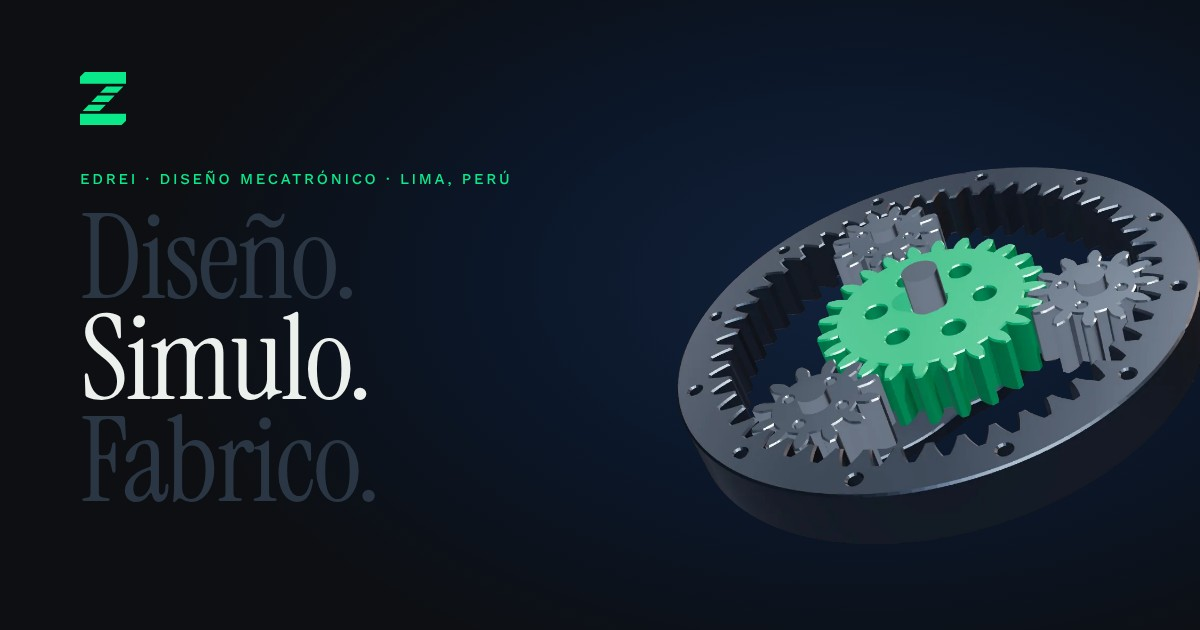
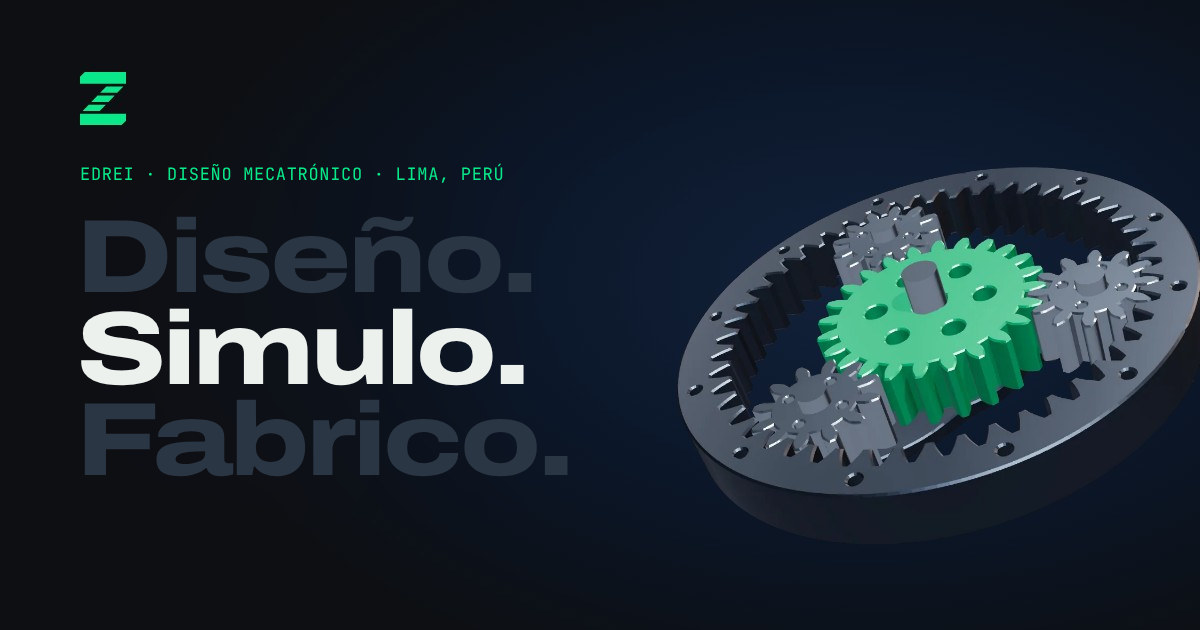
Ajustes de la revisión de la tipografía G
- Formatos: la lista se corta entre grupos y ya no se sale de su columna en celulares de 380 a 392 px
- Tamaños exactos de la hoja G; piso de 30 px en las frases y 27,5 px bajo 390 px para conservar los 6 renglones del titular
- Máscaras de revelado: el desplazamiento inicial ya no deja asomar letras mientras se usa la fuente de respaldo
- El titular espera 100 ms por Archivo cuando el respaldo con métricas ajustadas está cargado (600 ms sin él, como en Android)
- Asterisco de los campos a la altura de las mayúsculas, flecha del pie en JetBrains Mono y año con las cifras del texto
- Franja 01/02/03 sin recortes de 280 a 1023 px; pestañas y «Materializa» caben a 280 px
- Imagen para compartir en redes con Archivo y JetBrains Mono
- README: créditos de tipografías al día

Claude-Session: https://claude.ai/code/session_014y8mfwLCPCHA8myfd3LjTH

Changed region(s): [[0.0617, 0.3317, 0.4933, 0.8143], [0.0617, 0.2413, 0.4317, 0.3016]]

diff --git a/index.html b/index.html
@@ -18,7 +18,7 @@
 <meta property="og:title" content="Edrei · Diseño. Simulo. Fabrico.">
 <meta property="og:description" content="Diseño mecatrónico freelance: modelado 3D, simulación y fabricación de piezas y productos.">
 <meta property="og:url" content="https://edrei-portafolio.github.io/">
-<meta property="og:image" content="https://edrei-portafolio.github.io/assets/brand/og-image.jpg">
+<meta property="og:image" content="https://edrei-portafolio.github.io/assets/brand/og-image.jpg?v=2">
 <meta property="og:image:width" content="1200">
 <meta property="og:image:height" content="630">
 <meta property="og:locale" content="es_PE">
@@ -142,7 +142,7 @@
         <p class="prose case-copy-p">Convierto tu idea, un boceto, una foto o una pieza física en un modelo 3D paramétrico, preciso y listo para fabricarse. Incluye planos con cotas y tolerancias, renders y archivos en formatos estándar. <a class="link" href="#contacto" data-pick-level="X">Cotizar este nivel</a></p>
         <dl class="case-table">
           <div><dt>Recibes</dt><dd>Modelo 3D, planos y renders</dd></div>
-          <div><dt>Formatos</dt><dd>STEP&nbsp;·&nbsp;IGES&nbsp;·&nbsp;STL&nbsp;·&nbsp;DWG&nbsp;·&nbsp;PDF</dd></div>
+          <div><dt>Formatos</dt><dd><span class="grp">STEP&nbsp;· IGES&nbsp;· STL&nbsp;·</span> <span class="grp">DWG&nbsp;· PDF</span></dd></div>
           <div><dt>Punto de partida</dt><dd>Idea, boceto, plano o pieza</dd></div>
           <div><dt>Ingeniería inversa</dt><dd>Repuestos y piezas descontinuadas</dd></div>
           <div><dt>Ideal para</dt><dd>Emprendedores, talleres y empresas</dd></div>
@@ -343,12 +343,12 @@
 
     <form class="form row12" id="brief" novalidate>
       <div class="f f-half f-a">
-        <label for="nombre">Nombre*</label>
+        <label for="nombre">Nombre<span class="req" aria-hidden="true">*</span></label>
         <input id="nombre" name="nombre" type="text" autocomplete="name" placeholder="Escribe tu nombre" required>
         <p class="f-err" id="err-nombre"></p>
       </div>
       <div class="f f-half f-b">
-        <label for="medio">WhatsApp o correo*</label>
+        <label for="medio">WhatsApp o correo<span class="req" aria-hidden="true">*</span></label>
         <input id="medio" name="medio" type="text" autocomplete="on" placeholder="+51 9XX XXX XXX o correo" required>
         <p class="f-err" id="err-medio"></p>
       </div>
@@ -362,7 +362,7 @@
         </div>
       </fieldset>
       <div class="f f-full">
-        <label for="descripcion">Mensaje*</label>
+        <label for="descripcion">Mensaje<span class="req" aria-hidden="true">*</span></label>
         <textarea id="descripcion" name="descripcion" rows="3" placeholder="Qué es, para qué se usará y con qué cuentas hoy" required></textarea>
         <p class="f-err" id="err-descripcion"></p>
       </div>
@@ -377,7 +377,7 @@
     <footer class="foot row12">
       <p class="foot-a">© <span class="num" data-year>2026</span> <span data-cfg="nombre">Edrei</span> · EJE Z — Diseño mecatrónico, Lima</p>
       <p class="foot-b" data-foot-links></p>
-      <p class="foot-c"><a class="link" href="#manifiesto">Volver arriba ↑</a></p>
+      <p class="foot-c"><a class="link" href="#manifiesto">Volver arriba <span class="up" aria-hidden="true">↑</span></a></p>
     </footer>
   </section>
   <!-- END PKG-D -->

diff --git a/assets/css/motion.css b/assets/css/motion.css
@@ -17,8 +17,8 @@
 @keyframes ez-sx { from { transform: scaleX(0); } }
 @keyframes ez-sy { from { transform: scaleY(0); } }
 @keyframes ez-pop { from { transform: scale(0); } }
-@keyframes ez-rise-112 { from { transform: translateY(112%); } }
-@keyframes ez-rise-108 { from { transform: translateY(108%); } }
+@keyframes ez-rise-wm { from { transform: translateY(calc(100% + .3em)); } }
+@keyframes ez-rise-tm { from { transform: translateY(calc(100% + .2em)); } }
 @keyframes ez-fill { from { clip-path: inset(100% 0 0 0); } to { clip-path: inset(0); } }
 @keyframes ez-wipe { from { clip-path: inset(0 0 100% 0); } to { clip-path: inset(0); } }
 @keyframes ez-settle { from { transform: scale(1.04); } }
@@ -28,8 +28,8 @@
 .wm { display: inline-block; overflow: hidden; vertical-align: top; padding: .1em .06em .18em; margin: -.1em -.06em -.18em; }
 .wm > span { display: inline-block; }
 html.motion .manifesto-text:not(.is-split) { opacity: 0; animation: ez-failsafe 0s 2.5s forwards; }
-html.motion .manifesto-text.is-split:not(.is-go) .wm > span { transform: translateY(112%); }
-html.motion .manifesto-text.is-go .wm > span { animation: ez-rise-112 var(--t-hero) var(--ease-expo) var(--d, 0ms) backwards; }
+html.motion .manifesto-text.is-split:not(.is-go) .wm > span { transform: translateY(calc(100% + .3em)); }
+html.motion .manifesto-text.is-go .wm > span { animation: ez-rise-wm var(--t-hero) var(--ease-expo) var(--d, 0ms) backwards; }
 /* La cota bajo "verificada" se dibuja tras la última línea */
 html.motion .manifesto-text:not(.is-go) .cota-word::after { transform: scaleX(0); }
 html.motion .manifesto-text.is-go:not(.is-done) .cota-word::after { animation: ez-sx 700ms var(--ease-out) var(--cd, 900ms) backwards; }
@@ -64,8 +64,8 @@ html.motion .cta-box { animation: ez-fill 700ms var(--ease-out) 600ms backwards;
 /* ---------- 5 · Capítulos: títulos con máscara ---------- */
 .tm { display: block; overflow: hidden; padding: .14em .04em .08em; margin: -.14em -.04em -.08em; }
 .tm > span { display: inline-block; }
-html.motion.mo-ready .rv:not(.is-in) .tm > span { transform: translateY(108%); }
-html.motion.mo-ready .rv.is-in .tm > span { animation: ez-rise-108 var(--t-hero) var(--ease-expo) backwards; }
+html.motion.mo-ready .rv:not(.is-in) .tm > span { transform: translateY(calc(100% + .2em)); }
+html.motion.mo-ready .rv.is-in .tm > span { animation: ez-rise-tm var(--t-hero) var(--ease-expo) backwards; }
 
 /* Cota, meta y regla inferior de la cabecera */
 html.motion.mo-ready .rv:not(.is-in) .cota::before,
@@ -126,8 +126,8 @@ html.motion.mo-ready .collage figure.is-in :is(img, canvas) { animation: ez-wipe
 }
 
 /* ---------- 8 · Sobre mí y contacto ---------- */
-html.motion.mo-ready .rv-h:not(.is-in) .wm > span { transform: translateY(112%); }
-html.motion.mo-ready .rv-h.is-in .wm > span { animation: ez-rise-112 900ms var(--ease-expo) var(--d, 0ms) backwards; }
+html.motion.mo-ready .rv-h:not(.is-in) .wm > span { transform: translateY(calc(100% + .3em)); }
+html.motion.mo-ready .rv-h.is-in .wm > span { animation: ez-rise-wm 900ms var(--ease-expo) var(--d, 0ms) backwards; }
 
 /* Riel de pasos: la regla se dibuja y luego aparecen los nodos */
 html.motion .steps li { border-top-color: transparent; }

diff --git a/assets/css/base.css b/assets/css/base.css
@@ -22,8 +22,8 @@
   --f-display:"Archivo","Archivo Display Fallback",Arial,sans-serif;
   --f-body:"Archivo","Archivo Fallback","Helvetica Neue",Arial,sans-serif;
   --f-mono:"JetBrains Mono",ui-monospace,"SFMono-Regular",Menlo,monospace;
-  --t-xl:clamp(2.5rem,.875rem + 5.5vw,6.125rem);   /* títulos de nivel (Archivo 800 al 125%) */
-  --t-l:clamp(1.875rem,1.05rem + 2.75vw,3.75rem);  /* h1 y cada h2 de frase (Archivo 600 al 112%) */
+  --t-xl:clamp(2.52rem,.864rem + 5.472vw,6.12rem);  /* títulos de nivel (Archivo 800 al 125%); medidas exactas de la hoja G */
+  --t-l:clamp(1.875rem,1.05rem + 2.772vw,3.78rem);  /* h1 y cada h2 de frase (Archivo 600 al 112%); piso de 30 px: a 30,24 el primer renglón del titular queda a 2 px del borde a 390 px y el respaldo pasa a 7 renglones */
   --t-lead:1.125rem; --t-body:1rem; --t-small:.875rem; --t-label:.75rem; /* floor = 12px */
   /* space */
   --s-1:4px; --s-2:8px; --s-3:12px; --s-4:16px; --s-5:24px; --s-6:32px; --s-7:48px; --s-8:64px; --s-9:96px; --s-10:128px;
@@ -43,6 +43,7 @@
   color-scheme:dark;
 }
 @media (max-width:1023px){:root{--m:.6;--cta-h:56px}}
+@media (max-width:389px){:root{--t-l:1.71875rem}} /* bajo 390 px el titular conserva los 6 renglones equilibrados de la hoja G (a 30 px serían 7 sin equilibrar) */
 @media (min-width:1024px) and (max-width:1279px){:root{--cta-w:200px;--cta-h:72px}}
 
 /* ---- base ---- */
@@ -87,6 +88,7 @@ input:-webkit-autofill{-webkit-text-fill-color:var(--text);box-shadow:inset 0 0 
 .case-table>div{position:relative;display:grid;grid-template-columns:minmax(9rem,.8fr) minmax(0,1.2fr);gap:var(--gutter);align-items:baseline;padding:11px 0;border-bottom:1px solid var(--line)}
 .case-table dt{font:400 var(--t-label)/1.5 var(--f-mono);letter-spacing:.04em;text-transform:uppercase;color:var(--dim)}
 .case-table dd{font:400 var(--t-small)/1.45 var(--f-body);color:var(--text);font-variant-numeric:tabular-nums;text-wrap:pretty}
+.case-table dd .grp{display:inline-block} /* grupo que prefiere no partirse: si no cabe, la línea se corta entre grupos */
 @media (pointer:coarse){.case-table>div{padding:12px 0}}
 @media (max-width:379px){.case-table>div{grid-template-columns:1fr;gap:2px}}
 /* pills chain */

diff --git a/assets/css/shell.css b/assets/css/shell.css
@@ -53,7 +53,7 @@ html.motion .side-plan path { stroke-dasharray: 1 1; stroke-dashoffset: 1; anima
   transition: transform var(--t-ui) var(--ease-out), opacity var(--t-ui) ease, visibility 0s linear var(--t-ui);
 }
 .lvl-strip a {
-  position: relative; flex: 1 1 0; display: flex; align-items: center; gap: 6px; min-width: 0;
+  position: relative; flex: 1 1 0; display: flex; align-items: center; gap: 6px; min-width: max-content;
   font: 400 var(--t-label)/1 var(--f-mono); letter-spacing: .02em; text-transform: uppercase; color: var(--dim);
   text-decoration: none; white-space: nowrap; overflow: hidden;
 }
@@ -75,6 +75,7 @@ html[data-section="modela"] .lvl-strip, html[data-section="valida"] .lvl-strip, 
 }
 @media (pointer: coarse) { .tab { min-height: 44px; } }
 @media (max-width: 380px) { .tab { letter-spacing: .01em; padding: 0 4px; } }
+@media (max-width: 299px) { .tabs-bar { padding-left: max(8px, env(safe-area-inset-left, 0px)); padding-right: max(8px, env(safe-area-inset-right, 0px)); } .tab { letter-spacing: 0; padding: 0 2px; } } /* las cuatro pestañas caben a 280 px */
 
 /* ---------- Manifiesto ---------- */
 .content { position: relative; }

diff --git a/assets/css/about.css b/assets/css/about.css
@@ -85,6 +85,7 @@
 
 .f label, .f legend { padding: 0; font: 400 var(--t-label)/1.5 var(--f-mono); letter-spacing: .04em; text-transform: uppercase; color: var(--text); transition: color var(--t-ui) ease; }
 .f legend { margin-bottom: 12px; }
+.f label .req { position: relative; top: -.12em; } /* el * de JetBrains Mono va a media altura: se sube a la altura de las mayúsculas */
 .f input, .f textarea {
   width: 100%; min-height: 48px; padding: 10px 0; margin: 0;
   font: 400 1.0625rem/1.45 var(--f-body); color: var(--text);
@@ -155,6 +156,8 @@
 .foot a { color: var(--mist); }
 .foot .link { display: inline-block; padding: 14px 0; color: var(--text); font-weight: 400; background-position: 0 calc(100% - 12px), 0 calc(100% - 12px); }
 .foot-b { display: flex; flex-wrap: wrap; gap: 4px 20px; }
+.foot-a .num { font-family: inherit; } /* el año con las cifras del texto: misma altura y mismo renglón */
+.foot .up { font-family: var(--f-mono); } /* la flecha de JetBrains Mono apoya en la línea base y tiene el trazo de las letras */
 .foot-b:empty { display: none; }
 @media (min-width: 640px) {
   .foot { grid-template-columns: repeat(12, minmax(0, 1fr)); }

diff --git a/assets/js/motion.js b/assets/js/motion.js
@@ -89,7 +89,11 @@ async function hero() {
   if (!h1) return;
   try {
     const f = document.fonts && document.fonts.load ? document.fonts.load('600 1em Archivo') : Promise.resolve();
-    await Promise.race([f.catch(() => {}), wait(600)]);
+    // Con el respaldo de métricas ajustadas (Arial o Liberation) el titular se parte igual con o sin Archivo:
+    // basta esperar 100 ms. Sin él (Android dibuja con Roboto) se espera hasta 600 ms, como antes.
+    let fb = false;
+    try { fb = ((await Promise.race([document.fonts.load('600 1em "Archivo Display Fallback"'), wait(100)])) || []).length > 0; } catch (e) { /* sin respaldo */ }
+    await Promise.race([f.catch(() => {}), wait(fb ? 100 : 600)]);
   } catch (e) { /* sigue */ }
   try {
     if (motionOn() && performance.now() < LATE_MS) {

diff --git a/assets/css/cases.css b/assets/css/cases.css
@@ -5,6 +5,7 @@
 .case-head { display: grid; gap: var(--head-gap); padding-bottom: var(--s-6); border-bottom: 1px solid var(--line); }
 .case-head .cota { margin-bottom: calc(var(--s-5) - var(--head-gap)); }
 .case-title { overflow-wrap: anywhere; }
+@media (max-width: 299px) { .case-title { font-size: 13vw; } } /* pantallas de 280 px: «Materializa» entra en una línea */
 
 /* ---------- Fila: iconos, ficha, texto, tabla ---------- */
 .case-row { row-gap: 0; padding-top: var(--s-5); }

diff --git a/README.md b/README.md
@@ -82,5 +82,5 @@ Después, en `index.html`, cambia `og:image` por la dirección completa (`https:
 - Funciona sin servidor ni base de datos. El formulario arma una ficha y la envía por WhatsApp (o se copia para pegarla en un correo).
 - El modelo 3D se carga después del contenido. Si el equipo no soporta WebGL, la página muestra imágenes fijas de los mismos renders.
 - Respeta la opción del sistema "reducir movimiento": desactiva animaciones y deja el modelo quieto.
-- Tipografías de Google Fonts: Instrument Serif, Work Sans y Martian Mono (licencia SIL Open Font). Modelo 3D con Three.js 0.160 (licencia MIT) desde jsDelivr.
+- Tipografías de Google Fonts: Archivo y JetBrains Mono (licencia SIL Open Font). Modelo 3D con Three.js 0.160 (licencia MIT) desde jsDelivr.
 - Todas las imágenes 3D fueron generadas para esta marca; puedes usarlas libremente. Los valores técnicos del proyecto demo son ilustrativos.
